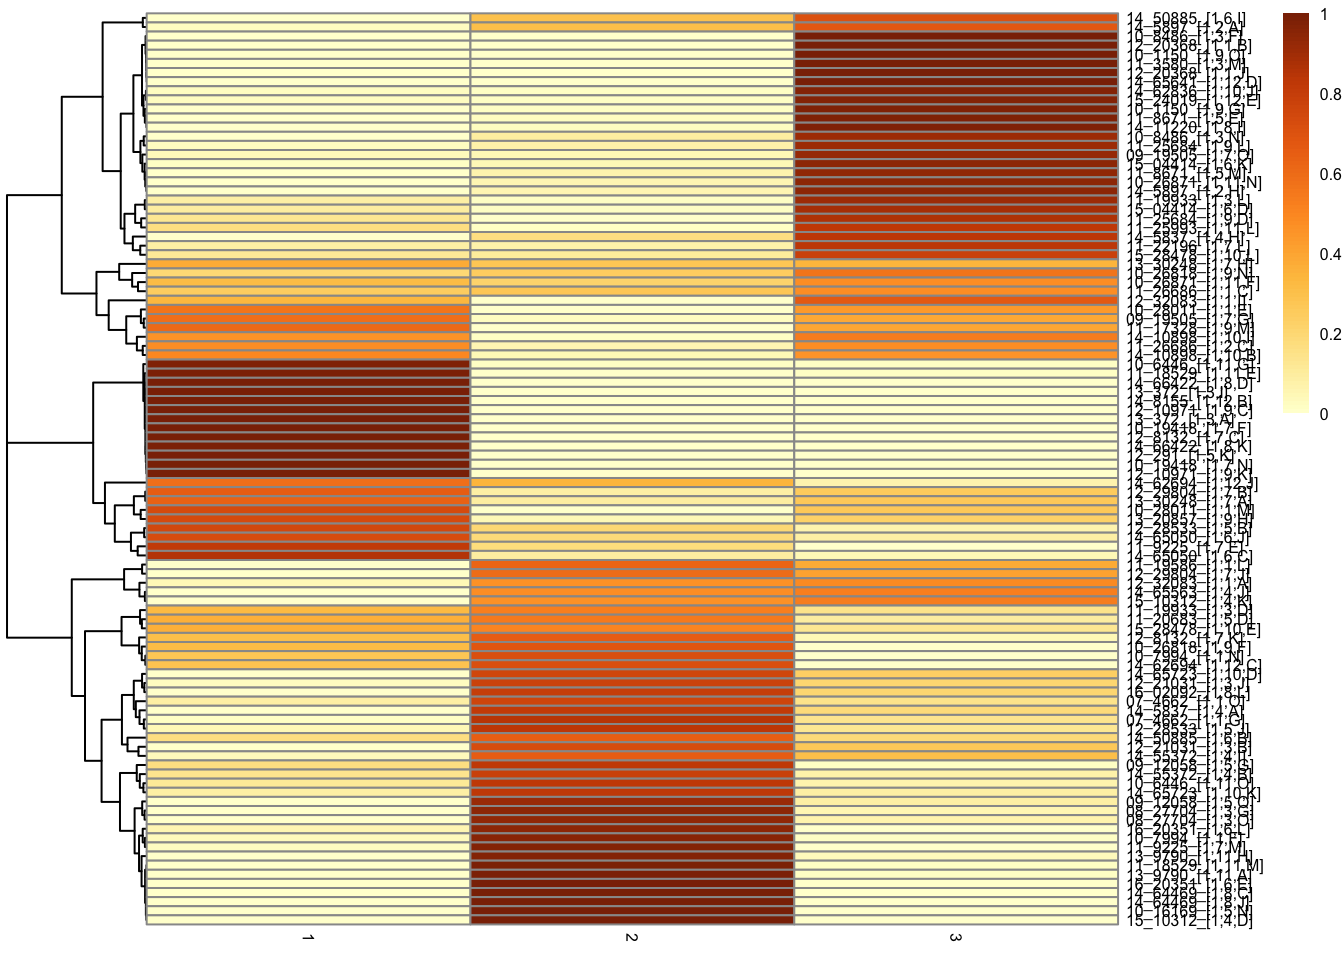
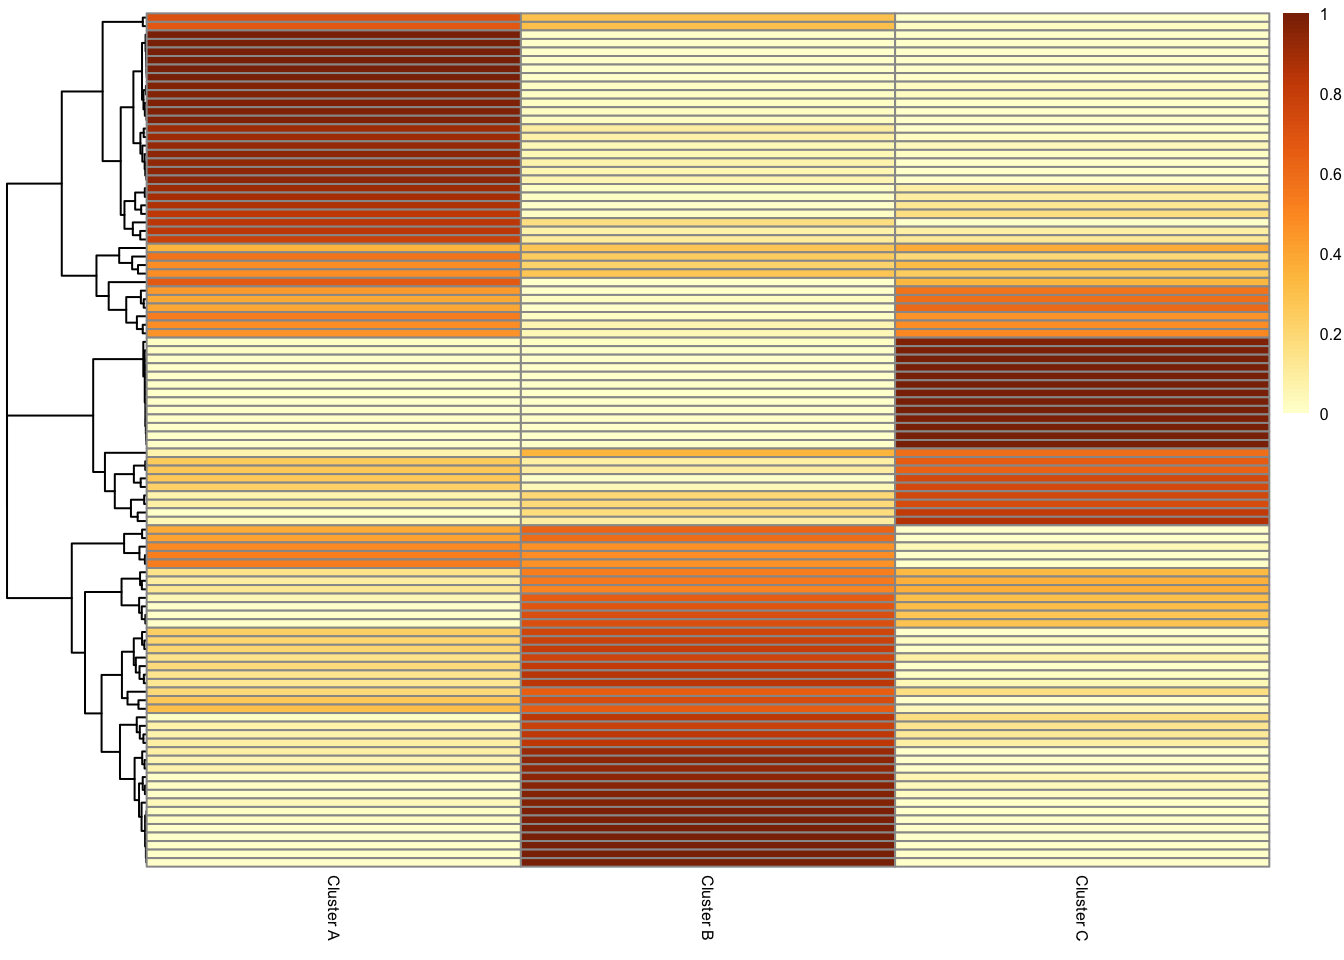
Build site.

diff --git a/docs/cores_3.html b/docs/cores_3.html
@@ -11,7 +11,7 @@
 
 <meta name="author" content="Jovan Tanevski" />
 
-<meta name="date" content="2025-08-06" />
+<meta name="date" content="2025-08-12" />
 
 <title>cores</title>
 
@@ -382,7 +382,7 @@ div.tocify {
 
 <h1 class="title toc-ignore">cores</h1>
 <h4 class="author">Jovan Tanevski</h4>
-<h4 class="date">2025-08-06</h4>
+<h4 class="date">2025-08-12</h4>
 
 </div>
 
@@ -411,7 +411,7 @@ class="glyphicon glyphicon-ok text-success" aria-hidden="true"></span>
 <div class="tab-content">
 <div id="summary" class="tab-pane fade in active">
 <p>
-<strong>Last updated:</strong> 2025-08-06
+<strong>Last updated:</strong> 2025-08-12
 </p>
 <p>
 <strong>Checks:</strong> <span
@@ -542,15 +542,15 @@ project makes it easier to run your code on other machines.</p>
 <div class="panel panel-default">
 <div class="panel-heading">
 <p class="panel-title">
-<a data-toggle="collapse" data-parent="#workflowr-checks" href="#strongRepositoryversionstrongahrefhttpsgithubcomsaezlabMultispectralHCCtree089d2fef16d01978fcb6edbd0871e8fcb9bc5523targetblank089d2fea">
+<a data-toggle="collapse" data-parent="#workflowr-checks" href="#strongRepositoryversionstrongahrefhttpsgithubcomsaezlabMultispectralHCCtreeba6e848e297ec24b419157881ebc6568b9a8b347targetblankba6e848a">
 <span class="glyphicon glyphicon-ok text-success"
 aria-hidden="true"></span> <strong>Repository version:</strong>
-<a href="https://github.com/saezlab/MultispectralHCC/tree/089d2fef16d01978fcb6edbd0871e8fcb9bc5523" target="_blank">089d2fe</a>
+<a href="https://github.com/saezlab/MultispectralHCC/tree/ba6e848e297ec24b419157881ebc6568b9a8b347" target="_blank">ba6e848</a>
 </a>
 </p>
 </div>
 <div
[2 lines of base64/hex data omitted]
 class="panel-collapse collapse">
 <div class="panel-body">
 <p>
@@ -560,7 +560,7 @@ reproducibility.
 </p>
 <p>
 The results in this page were generated with repository version
-<a href="https://github.com/saezlab/MultispectralHCC/tree/089d2fef16d01978fcb6edbd0871e8fcb9bc5523" target="_blank">089d2fe</a>.
+<a href="https://github.com/saezlab/MultispectralHCC/tree/ba6e848e297ec24b419157881ebc6568b9a8b347" target="_blank">ba6e848</a>.
 See the <em>Past versions</em> tab to see a history of the changes made
 to the R Markdown and HTML files.
 </p>
@@ -579,6 +579,7 @@ Ignored files:
     Ignored:    .Rhistory
     Ignored:    .Rproj.user/
     Ignored:    analysis/.DS_Store
+    Ignored:    analysis/figure/
     Ignored:    code/
     Ignored:    data/
     Ignored:    old/
@@ -599,125 +600,21 @@ Untracked files:
     Untracked:  all_samples.pdf
     Untracked:  all_samples_nonegative.pdf
     Untracked:  all_samples_nonnegative_ordered.pdf
+    Untracked:  all_samples_nonnegative_ordered_2.pdf
+    Untracked:  all_samples_nonnegative_ordered_3.pdf
     Untracked:  all_samples_ordered.pdf
     Untracked:  basismap.pdf
     Untracked:  clusters_profiles.pdf
     Untracked:  difference_means_negatives.pdf
     Untracked:  difference_means_nonegatives.pdf
+    Untracked:  difference_means_nonegatives_2.pdf
+    Untracked:  difference_means_nonegatives_3.pdf
+    Untracked:  difference_means_nonegatives_4.pdf
+    Untracked:  marker_abundance.jpg
     Untracked:  marker_abundance.pdf
+    Untracked:  marker_abundance_100k.pdf
+    Untracked:  marker_abundance_50k.pdf
     Untracked:  means_diff_negatives.pdf
-    Untracked:  output/cores_3/07_4662_T_HCC1_Core[1,1,G]_[54178,3757].tif.pdf
-    Untracked:  output/cores_3/07_4662_T_HCC1_Core[1,1,G]_[54178,3757]_composite_image.tif.pdf
-    Untracked:  output/cores_3/07_4662_[1,1,G].png
-    Untracked:  output/cores_3/07_4662_[1,1,O].png
-    Untracked:  output/cores_3/08_27704_[1,3,G].png
-    Untracked:  output/cores_3/08_27704_[1,3,O].png
-    Untracked:  output/cores_3/09_12058_T_HCC1_Core[1,5,G]_[53650,10140].tif.pdf
-    Untracked:  output/cores_3/09_12058_T_HCC1_Core[1,5,G]_[53650,10140]_composite_image.tif.pdf
-    Untracked:  output/cores_3/09_12058_[1,5,G].png
-    Untracked:  output/cores_3/09_12058_[1,5,O].png
-    Untracked:  output/cores_3/09_19505_[1,7,G].png
-    Untracked:  output/cores_3/09_19505_[1,7,O].png
-    Untracked:  output/cores_3/10_1150_[1,9,G].png
-    Untracked:  output/cores_3/10_1150_[1,9,O].png
-    Untracked:  output/cores_3/10_16169_[1,5,N].png
-    Untracked:  output/cores_3/10_19418_T_HCC1_Core[1,7,N]_[62865,13595].tif.pdf
-    Untracked:  output/cores_3/10_19418_T_HCC1_Core[1,7,N]_[62865,13595]_composite_image.tif.pdf
-    Untracked:  output/cores_3/10_19418_[1,7,F].png
-    Untracked:  output/cores_3/10_19418_[1,7,N].png
-    Untracked:  output/cores_3/10_26818_[1,9,F].png
-    Untracked:  output/cores_3/10_26818_[1,9,N].png
-    Untracked:  output/cores_3/10_26871_[1,11,F].png
-    Untracked:  output/cores_3/10_26871_[1,11,N].png
-    Untracked:  output/cores_3/10_28011_[1,1,E].png
-    Untracked:  output/cores_3/10_28011_[1,1,M].png
-    Untracked:  output/cores_3/10_6446_[1,11,G].png
-    Untracked:  output/cores_3/10_6446_[1,11,O].png
-    Untracked:  output/cores_3/10_7994_[1,1,F].png
-    Untracked:  output/cores_3/10_7994_[1,1,N].png
-    Untracked:  output/cores_3/10_8486_[1,3,F].png
-    Untracked:  output/cores_3/10_8486_[1,3,N].png
-    Untracked:  output/cores_3/11_17328_[1,9,M].png
-    Untracked:  output/cores_3/11_18529_[1,11,E].png
-    Untracked:  output/cores_3/11_18529_[1,11,M].png
-    Untracked:  output/cores_3/11_19586_[1,1,L].png
-    Untracked:  output/cores_3/11_19933_[1,3,D].png
-    Untracked:  output/cores_3/11_19933_[1,3,L].png
-    Untracked:  output/cores_3/11_20683_[1,5,D].png
-    Untracked:  output/cores_3/11_22196_[1,7,L].png
-    Untracked:  output/cores_3/11_25684_[1,9,D].png
-    Untracked:  output/cores_3/11_25684_[1,9,L].png
-    Untracked:  output/cores_3/11_25993_[1,11,L].png
-    Untracked:  output/cores_3/11_26686_[1,1,C].png
-    Untracked:  output/cores_3/11_26686_[1,2,C].png
-    Untracked:  output/cores_3/11_3580_[1,3,M].png
-    Untracked:  output/cores_3/11_8671_[1,5,E].png
-    Untracked:  output/cores_3/11_8671_[1,5,M].png
-    Untracked:  output/cores_3/11_9225_[1,7,E].png
-    Untracked:  output/cores_3/11_9225_[1,7,M].png
-    Untracked:  output/cores_3/12_10971_[1,9,C].png
-    Untracked:  output/cores_3/12_10971_[1,9,K].png
-    Untracked:  output/cores_3/12_20368_[1,1,B].png
-    Untracked:  output/cores_3/12_20368_[1,1,J].png
-    Untracked:  output/cores_3/12_21031_[1,3,B].png
-    Untracked:  output/cores_3/12_21031_[1,3,J].png
-    Untracked:  output/cores_3/12_28533_[1,5,B].png
-    Untracked:  output/cores_3/12_28533_[1,5,J].png
-    Untracked:  output/cores_3/12_291_[1,5,K].png
-    Untracked:  output/cores_3/12_29804_[1,7,B].png
-    Untracked:  output/cores_3/12_29804_[1,7,J].png
-    Untracked:  output/cores_3/12_32083_[1,1,A].png
-    Untracked:  output/cores_3/12_32083_[1,1,I].png
-    Untracked:  output/cores_3/12_8132_[1,7,C].png
-    Untracked:  output/cores_3/12_8132_[1,7,K].png
-    Untracked:  output/cores_3/13_20857_[1,9,H].png
-    Untracked:  output/cores_3/13_30248_[1,7,A].png
-    Untracked:  output/cores_3/13_30248_[1,7,H].png
-    Untracked:  output/cores_3/13_372_[1,3,A].png
-    Untracked:  output/cores_3/13_372_[1,3,I].png
-    Untracked:  output/cores_3/13_9790_[1,11,A].png
-    Untracked:  output/cores_3/13_9790_[1,11,H].png
-    Untracked:  output/cores_3/14_10898_[1,10,B].png
-    Untracked:  output/cores_3/14_10898_[1,10,I].png
-    Untracked:  output/cores_3/14_11220_[1,8,I].png
-    Untracked:  output/cores_3/14_50885_[1,6,B].png
-    Untracked:  output/cores_3/14_50885_[1,6,I].png
-    Untracked:  output/cores_3/14_55372_T_HCC2_Core[1,4,B]_[41613,8063].tif.pdf
-    Untracked:  output/cores_3/14_55372_T_HCC2_Core[1,4,B]_[41613,8063]_composite_image.tif.pdf
-    Untracked:  output/cores_3/14_55372_[1,4,B].png
-    Untracked:  output/cores_3/14_55372_[1,4,I].png
-    Untracked:  output/cores_3/14_5837_[1,4,A].png
-    Untracked:  output/cores_3/14_5837_[1,4,H].png
-    Untracked:  output/cores_3/14_5897_[1,2,A].png
-    Untracked:  output/cores_3/14_5897_[1,2,H].png
-    Untracked:  output/cores_3/14_62694_[1,12,C].png
-    Untracked:  output/cores_3/14_62694_[1,12,J].png
-    Untracked:  output/cores_3/14_62836_[1,10,J].png
-    Untracked:  output/cores_3/14_64469_[1,8,C].png
-    Untracked:  output/cores_3/14_64469_[1,8,J].png
-    Untracked:  output/cores_3/14_65050_[1,6,C].png
-    Untracked:  output/cores_3/14_65050_[1,6,J].png
-    Untracked:  output/cores_3/14_65563_[1,4,J].png
-    Untracked:  output/cores_3/14_65641_[1,12,D].png
-    Untracked:  output/cores_3/14_65723_[1,10,D].png
-    Untracked:  output/cores_3/14_65723_[1,10,K].png
-    Untracked:  output/cores_3/14_66422_[1,8,D].png
-    Untracked:  output/cores_3/14_66422_[1,8,K].png
-    Untracked:  output/cores_3/14_8155_[1,12,B].png
-    Untracked:  output/cores_3/15_04414_T_HCC2_Core[1,6,K]_[55819,11566].tif.pdf
-    Untracked:  output/cores_3/15_04414_T_HCC2_Core[1,6,K]_[55819,11566]_composite_image.tif.pdf
-    Untracked:  output/cores_3/15_04414_[1,6,D].png
-    Untracked:  output/cores_3/15_04414_[1,6,K].png
-    Untracked:  output/cores_3/15_10312_[1,4,D].png
-    Untracked:  output/cores_3/15_10312_[1,4,K].png
-    Untracked:  output/cores_3/15_24019_[1,12,E].png
-    Untracked:  output/cores_3/15_28478_[1,10,E].png
-    Untracked:  output/cores_3/15_28478_[1,10,L].png
-    Untracked:  output/cores_3/16_02092_[1,8,L].png
-    Untracked:  output/cores_3/16_20351_[1,6,E].png
-    Untracked:  output/cores_3/16_20351_[1,6,L].png
-    Untracked:  output/negatives_per_core.csv
-    Untracked:  output/positive_clusters_per_core.csv
     Untracked:  output/single_clusters_per_core.csv
     Untracked:  output/single_clusters_per_core_other.csv
     Untracked:  output/single_clusters_per_core_test_summary.csv
@@ -728,22 +625,26 @@ Untracked files:
     Untracked:  runnmf.R
     Untracked:  test_core2.csv
     Untracked:  umap_clusters.pdf
+    Untracked:  umap_clusters_100k.pdf
 
 Unstaged changes:
+    Modified:   output/cores_3/07_4662_T_HCC1_Core[1,1,G]_[54178,3757].tif.pdf
+    Modified:   output/cores_3/07_4662_T_HCC1_Core[1,1,G]_[54178,3757]_composite_image.tif.pdf
+    Modified:   output/cores_3/09_12058_T_HCC1_Core[1,5,G]_[53650,10140].tif.pdf
+    Modified:   output/cores_3/09_12058_T_HCC1_Core[1,5,G]_[53650,10140]_composite_image.tif.pdf
     Modified:   output/cores_3/09_12058_T_HCC1_Core[1,5,O]_[64353,10620].tif.pdf
     Modified:   output/cores_3/09_12058_T_HCC1_Core[1,5,O]_[64353,10620]_composite_image.tif.pdf
     Modified:   output/cores_3/10_19418_T_HCC1_Core[1,7,F]_[52018,13307].tif.pdf
     Modified:   output/cores_3/10_19418_T_HCC1_Core[1,7,F]_[52018,13307]_composite_image.tif.pdf
+    Modified:   output/cores_3/10_19418_T_HCC1_Core[1,7,N]_[62865,13595].tif.pdf
+    Modified:   output/cores_3/10_19418_T_HCC1_Core[1,7,N]_[62865,13595]_composite_image.tif.pdf
     Modified:   output/cores_3/11_19586_T_HCC1_Core[1,1,L]_[60801,3853].tif.pdf
     Modified:   output/cores_3/11_19586_T_HCC1_Core[1,1,L]_[60801,3853]_composite_image.tif.pdf
     Modified:   output/cores_3/11_22196_T_HCC1_Core[1,7,L]_[60177,13499].tif.pdf
     Modified:   output/cores_3/11_22196_T_HCC1_Core[1,7,L]_[60177,13499]_composite_image.tif.pdf
     Modified:   output/cores_3/12_291_T_HCC1_Core[1,5,K]_[58929,10236].tif.pdf
     Modified:   output/cores_3/12_291_T_HCC1_Core[1,5,K]_[58929,10236]_composite_image.tif.pdf
-    Modified:   output/cores_3/14_55372_T_HCC2_Core[1,4,I]_[52796,8447].tif.pdf
-    Modified:   output/cores_3/14_55372_T_HCC2_Core[1,4,I]_[52796,8447]_composite_image.tif.pdf
-    Modified:   output/cores_3/15_04414_T_HCC2_Core[1,6,D]_[44733,11134].tif.pdf
-    Modified:   output/cores_3/15_04414_T_HCC2_Core[1,6,D]_[44733,11134]_composite_image.tif.pdf
+    Modified:   output/cores_3/14_55372_T_HCC2_Core[1,4,B]_[41613,8063]_composite_image.tif.pdf
 
 </code></pre>
 <p>
@@ -788,6 +689,40 @@ Message
 </tr>
 </thead>
 <tbody>
+<tr>
+<td>
+Rmd
+</td>
+<td>
+<a href="https://github.com/saezlab/MultispectralHCC/blob/ba6e848e297ec24b419157881ebc6568b9a8b347/analysis/cores_3.Rmd" target="_blank">ba6e848</a>
+</td>
+<td>
+Jovan Tanevski
+</td>
+<td>
+2025-08-12
+</td>
+<td>
+wflow_publish("analysis/cores_3.Rmd")
+</td>
+</tr>
+<tr>
+<td>
+html
+</td>
+<td>
+<a href="https://rawcdn.githack.com/saezlab/MultispectralHCC/c31c4de115551401c2a71da8ee5333138f228477/docs/cores_3.html" target="_blank">c31c4de</a>
+</td>
+<td>
+Jovan Tanevski
+</td>
+<td>
+2025-08-06
+</td>
+<td>
+Build site.
+</td>
+</tr>
 <tr>
 <td>
 Rmd
@@ -2137,7 +2072,7 @@ Jovan Tanevski
 <div id="marker-abundance-plots" class="section level3">
 <h3>Marker abundance plots</h3>
 <pre class="r"><code>tumor.hc.umap.markers &lt;- tumor.hc.norm %&gt;%
-  bind_cols(tumor.hc.umap.sample) # %&gt;%
+  bind_cols(tumor.hc.umap.sample)
 
 low &lt;- RColorBrewer::brewer.pal(8, &quot;Set2&quot;)[8]
 highs &lt;- RColorBrewer::brewer.pal(8, &quot;Set2&quot;)[seq_len(ncol(tumor.hc.norm))]
@@ -2238,7 +2173,7 @@ Jovan Tanevski
 </table>
 </div>
 </div>
-<pre class="r"><code>ggsave(&quot;marker_abundance.pdf&quot;, width = 8, height = 8)</code></pre>
+<pre class="r"><code>ggsave(&quot;marker_abundance.jpg&quot;, width = 8, height = 8)</code></pre>
 </div>
 <div id="core-plots" class="section level3">
 <h3>Core plots</h3>
@@ -2302,6 +2237,17 @@ Date
 </tr>
 </thead>
 <tbody>
+<tr>
+<td>
+<a href="https://github.com/saezlab/MultispectralHCC/blob/c31c4de115551401c2a71da8ee5333138f228477/docs/figure/cores_3.Rmd/unnamed-chunk-13-1.png" target="_blank">c31c4de</a>
+</td>
+<td>
+Jovan Tanevski
+</td>
+<td>
+2025-08-06
+</td>
+</tr>
 <tr>
 <td>
 <a href="https://github.com/saezlab/MultispectralHCC/blob/7c4efb36afae89a6590c75404176d00f98a721dd/docs/figure/cores_3.Rmd/unnamed-chunk-13-1.png" target="_blank">7c4efb3</a>
@@ -2597,11 +2543,13 @@ tumor.hc.core %&gt;%
   pivot_wider(names_from = &quot;Cluster&quot;, values_from = &quot;Fraction&quot;) %&gt;%
   column_to_rownames(&quot;sample&quot;) %&gt;%
   mutate(across(everything(), ~ replace_na(., 0))) %&gt;%
+  rename(&quot;Cluster C&quot; = &quot;1&quot;, &quot;Cluster B&quot; = &quot;2&quot;, &quot;Cluster A&quot; = &quot;3&quot;) %&gt;%
+  relocate(&quot;Cluster C&quot;, .after = &quot;Cluster A&quot;) %&gt;% relocate(&quot;Cluster A&quot;, .before = &quot;Cluster B&quot;) %&gt;%
   as.matrix() %&gt;%
   pheatmap(
     scale = &quot;none&quot;,
     color = colorRampPalette(brewer.pal(n = 7, name = &quot;YlOrBr&quot;))(100),
-    fontsize = 6, cluster_cols = FALSE
+    fontsize = 6, cluster_cols = FALSE, show_rownames = F
   )</code></pre>
 <pre><code>Warning: Returning more (or less) than 1 row per `summarise()` group was deprecated in
 dplyr 1.1.0.
@@ -2633,6 +2581,17 @@ Date
 </tr>
 </thead>
 <tbody>
+<tr>
+<td>
+<a href="https://github.com/saezlab/MultispectralHCC/blob/c31c4de115551401c2a71da8ee5333138f228477/docs/figure/cores_3.Rmd/unnamed-chunk-17-1.png" target="_blank">c31c4de</a>
+</td>
+<td>
+Jovan Tanevski
+</td>
+<td>
+2025-08-06
+</td>
+</tr>
 <tr>
 <td>
 <a href="https://github.com/saezlab/MultispectralHCC/blob/7c4efb36afae89a6590c75404176d00f98a721dd/docs/figure/cores_3.Rmd/unnamed-chunk-17-1.png" target="_blank">7c4efb3</a>
@@ -2779,8 +2738,11 @@ de.table %&gt;%
 <pre class="r"><code>de.table %&gt;%
   pivot_wider(names_from = &quot;Cluster&quot;, values_from = &quot;Difference&quot;, -c(p, q)) %&gt;%
   column_to_rownames(&quot;Marker&quot;) %&gt;%
+  `rownames&lt;-`(c(&quot;GS&quot;, &quot;EpCam&quot;, &quot;CRP&quot;, &quot;p-S6&quot;)) %&gt;%
+  rename(&quot;Cluster C&quot; = &quot;1&quot;, &quot;Cluster B&quot; = &quot;2&quot;, &quot;Cluster A&quot; = &quot;3&quot;) %&gt;%
+  relocate(&quot;Cluster C&quot;, .after = &quot;Cluster B&quot;) %&gt;% relocate(&quot;Cluster A&quot;, .before = &quot;Cluster B&quot;) %&gt;%
   as.matrix() %&gt;%
-  pheatmap(scale = &quot;none&quot;, breaks = seq(-1, 1.5, length.out=100))</code></pre>
+  pheatmap(scale = &quot;none&quot;, breaks = seq(-1, 1.5, length.out=100), cluster_cols = FALSE)</code></pre>
 <pre><code>Warning: Specifying the `id_cols` argument by position was deprecated in tidyr 1.3.0.
 ℹ Please explicitly name `id_cols`, like `id_cols = -c(p, q)`.
 Call `lifecycle::last_lifecycle_warnings()` to see where this warning was
@@ -2808,6 +2770,17 @@ Date
 </tr>
 </thead>
 <tbody>
+<tr>
+<td>
+<a href="https://github.com/saezlab/MultispectralHCC/blob/c31c4de115551401c2a71da8ee5333138f228477/docs/figure/cores_3.Rmd/unnamed-chunk-18-1.png" target="_blank">c31c4de</a>
+</td>
+<td>
+Jovan Tanevski
+</td>
+<td>
+2025-08-06
+</td>
+</tr>
 <tr>
 <td>
 <a href="https://github.com/saezlab/MultispectralHCC/blob/7c4efb36afae89a6590c75404176d00f98a721dd/docs/figure/cores_3.Rmd/unnamed-chunk-18-1.png" target="_blank">7c4efb3</a>
@@ -2856,7 +2829,7 @@ Session information
 <pre class="r"><code>sessionInfo()</code></pre>
 <pre><code>R version 4.5.1 (2025-06-13)
 Platform: aarch64-apple-darwin20
-Running under: macOS Sequoia 15.5
+Running under: macOS Sequoia 15.6
 
 Matrix products: default
 BLAS:   /Library/Frameworks/R.framework/Versions/4.5-arm64/Resources/lib/libRblas.0.dylib 
